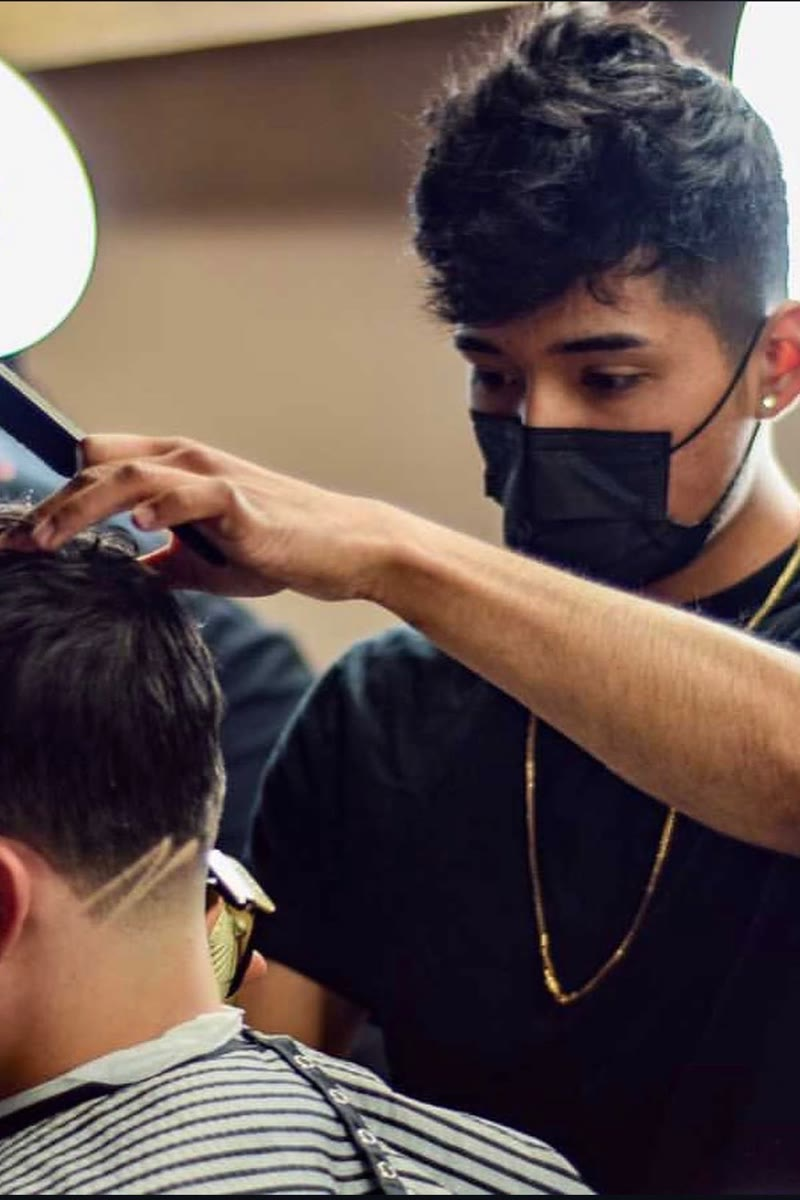
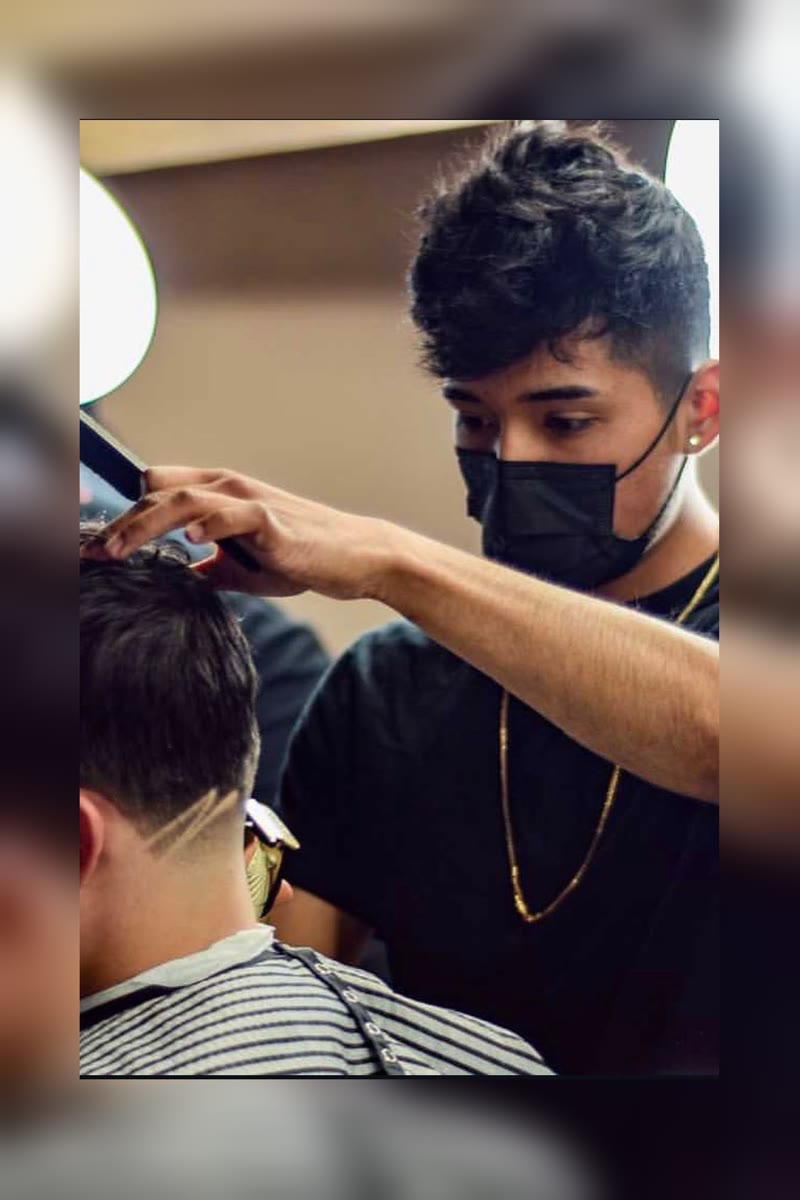
Zoom out David's card photo and add his Instagram
His shot is tight, and 1077x1616 was already the widest 2:3 region the
1290x1616 source allows, so re-cropping could not pull back any further.
The background is extended about 20% with a blurred copy of itself instead.
It blends because the backdrop is already shallow-focus bokeh, and he now
sits smaller in the frame with the client and cape visible.

Instagram @david.blends_ added to his card and profile.

diff --git a/index.html b/index.html
@@ -533,7 +533,7 @@
               <div class="role">Barber</div>
               <div class="sub">David Blends Hair Studio</div>
               <p>Cuts, fades, and line designs at Crowned With Glory Barbershop.</p>
-              <div class="contact"><a href="tel:+16147900714"><svg viewBox="0 0 24 24" fill="none" stroke="currentColor" stroke-width="2" stroke-linecap="round" stroke-linejoin="round" width="13" height="13"><path d="M22 16.9v3a2 2 0 0 1-2.2 2 19.8 19.8 0 0 1-8.6-3.1 19.5 19.5 0 0 1-6-6 19.8 19.8 0 0 1-3.1-8.6A2 2 0 0 1 4.1 2h3a2 2 0 0 1 2 1.7c.1 1 .4 1.9.7 2.8a2 2 0 0 1-.5 2.1L8.1 9.9a16 16 0 0 0 6 6l1.3-1.3a2 2 0 0 1 2.1-.5c.9.3 1.8.6 2.8.7a2 2 0 0 1 1.7 2z"/></svg>(614) 790-0714</a></div>
+              <div class="contact"><a href="https://www.instagram.com/david.blends_/"><svg viewBox="0 0 24 24" fill="none" stroke="currentColor" stroke-width="2" stroke-linecap="round" stroke-linejoin="round" width="13" height="13"><rect x="2" y="2" width="20" height="20" rx="5"/><circle cx="12" cy="12" r="4"/><circle cx="17.5" cy="6.5" r="1"/></svg>@david.blends_</a> · <a href="tel:+16147900714"><svg viewBox="0 0 24 24" fill="none" stroke="currentColor" stroke-width="2" stroke-linecap="round" stroke-linejoin="round" width="13" height="13"><path d="M22 16.9v3a2 2 0 0 1-2.2 2 19.8 19.8 0 0 1-8.6-3.1 19.5 19.5 0 0 1-6-6 19.8 19.8 0 0 1-3.1-8.6A2 2 0 0 1 4.1 2h3a2 2 0 0 1 2 1.7c.1 1 .4 1.9.7 2.8a2 2 0 0 1-.5 2.1L8.1 9.9a16 16 0 0 0 6 6l1.3-1.3a2 2 0 0 1 2.1-.5c.9.3 1.8.6 2.8.7a2 2 0 0 1 1.7 2z"/></svg>(614) 790-0714</a></div>
               <a class="btn btn-gold btn-sm" href="https://david-blends.square.site/">Book with David</a>
               <a class="profile-link" href="#team" onclick="openProfile('david');return false;">View profile &rarr;</a>
             </div>
@@ -800,6 +800,7 @@
           <a class="btn btn-gold" href="https://david-blends.square.site/">View Services &amp; Book</a>
           <a class="btn btn-outline" href="tel:+16147900714">Call or Text</a>
         </div>
+        <div class="po-contact" style="margin-top:14px;font-size:13px"><a href="https://www.instagram.com/david.blends_/" style="color:var(--gold);font-weight:600"><svg viewBox="0 0 24 24" fill="none" stroke="currentColor" stroke-width="2" stroke-linecap="round" stroke-linejoin="round" width="13" height="13"><rect x="2" y="2" width="20" height="20" rx="5"/><circle cx="12" cy="12" r="4"/><circle cx="17.5" cy="6.5" r="1"/></svg>@david.blends_</a></div>
       </div>
       <div class="po-photo" style="background-image:url('Pictures/web/david-portrait.jpg');background-size:cover;background-position:center 20%"></div>
     </div>
